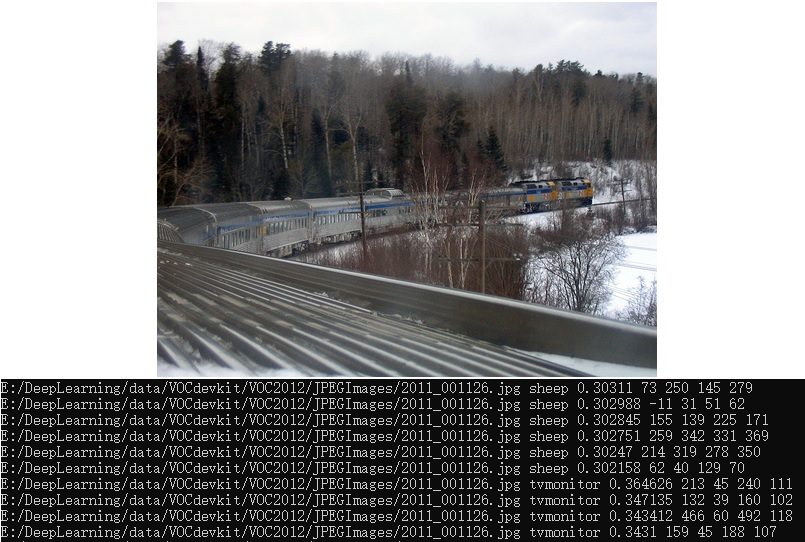
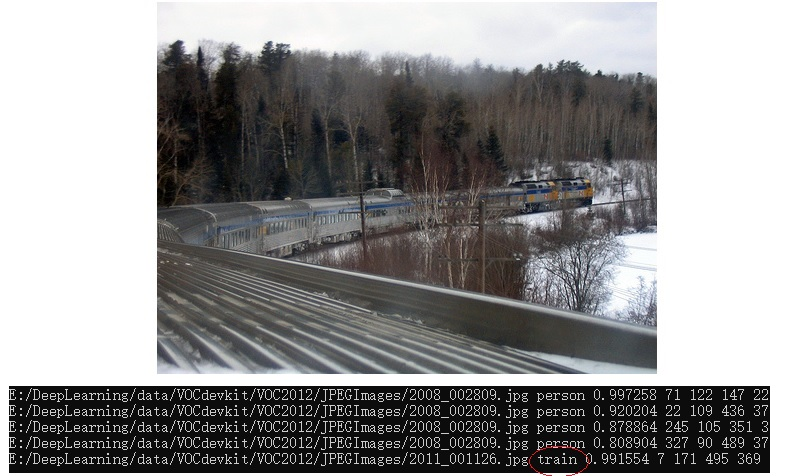
x

diff --git a/利用深度学习进行物体检测(ssd).md b/利用深度学习进行物体检测(ssd).md
@@ -38,7 +38,7 @@ _caffe.obj : error LNK2019: 无法解析的外部符号 "class caffe::Solver<flo
 其中比较坑的几个问题是：
 
 1. annotated_data_layer.hpp用来防止多次包含的宏名字写错了，#ifndef CAFFE_DATA_LAYER_HPP_，导致编译莫名其妙错误，折腾大半天。
-2. io.cpp的ReadProtoFromBinaryFile函数中打开文件，在windows下应该指明O_BINARY，否则caffe-ssd.exe不能“断点续train”，读取solverstat文件有问题。
+2. io.cpp的ReadProtoFromBinaryFile函数中打开文件，在windows下应该指明O_BINARY，否则caffe-ssd.exe不能“断点续train”，读取solverstat文件有问题。这个问题还导致ssd_detect.exe工具表现异常，让我一度怀疑官网提供的训练好了的模型有问题！！！
 
 ### 2、生成训练数据
 
@@ -344,7 +344,7 @@ for (int k = 0; k < num_det; ++k) {
 https://drive.google.com/open?id=0BzKzrI_SkD1_WVVTSmQxU0dVRzA
 ```
 
-下载下来后，用caffe-ssd自带的ssd_detect.exe工具加载模型，对图片进行物体检测，不知道什么原因，效果不好：
+下载下来后，用caffe-ssd自带的ssd_detect.exe工具加载模型，对图片进行物体检测：
 
 ```
 d:\software\caffe_install\caffe-ssd\build\examples\ssd\Release\ssd_detect.exe \
@@ -356,15 +356,9 @@ d:\software\caffe_install\caffe-ssd\build\examples\ssd\Release\ssd_detect.exe \
                                                                  pic_list.txt
 ```
 
-对于一张明显没有sheep也没有tvmonitor的图片，检测出很多小框框说有sheep和tvmonitor：
+效果不错：
 
 ![](img/ssd/UseModel2.jpg)
-
-百思不得其解，甚至每次运行ssd_detect.ext，输出还不一样。
-
-不止如此，用caffe-ssd.exe train命令基于VGG_VOC0712_SSD_300x300_iter_120000.caffemodel进行finetune，一开始测试的准确率也很低：detection_eval=0.002，这也是不符合预期的。
-
-继续训练的话，detection_eval值会逐渐上升，经过2万次迭代可达到0.11。
 
 
 
